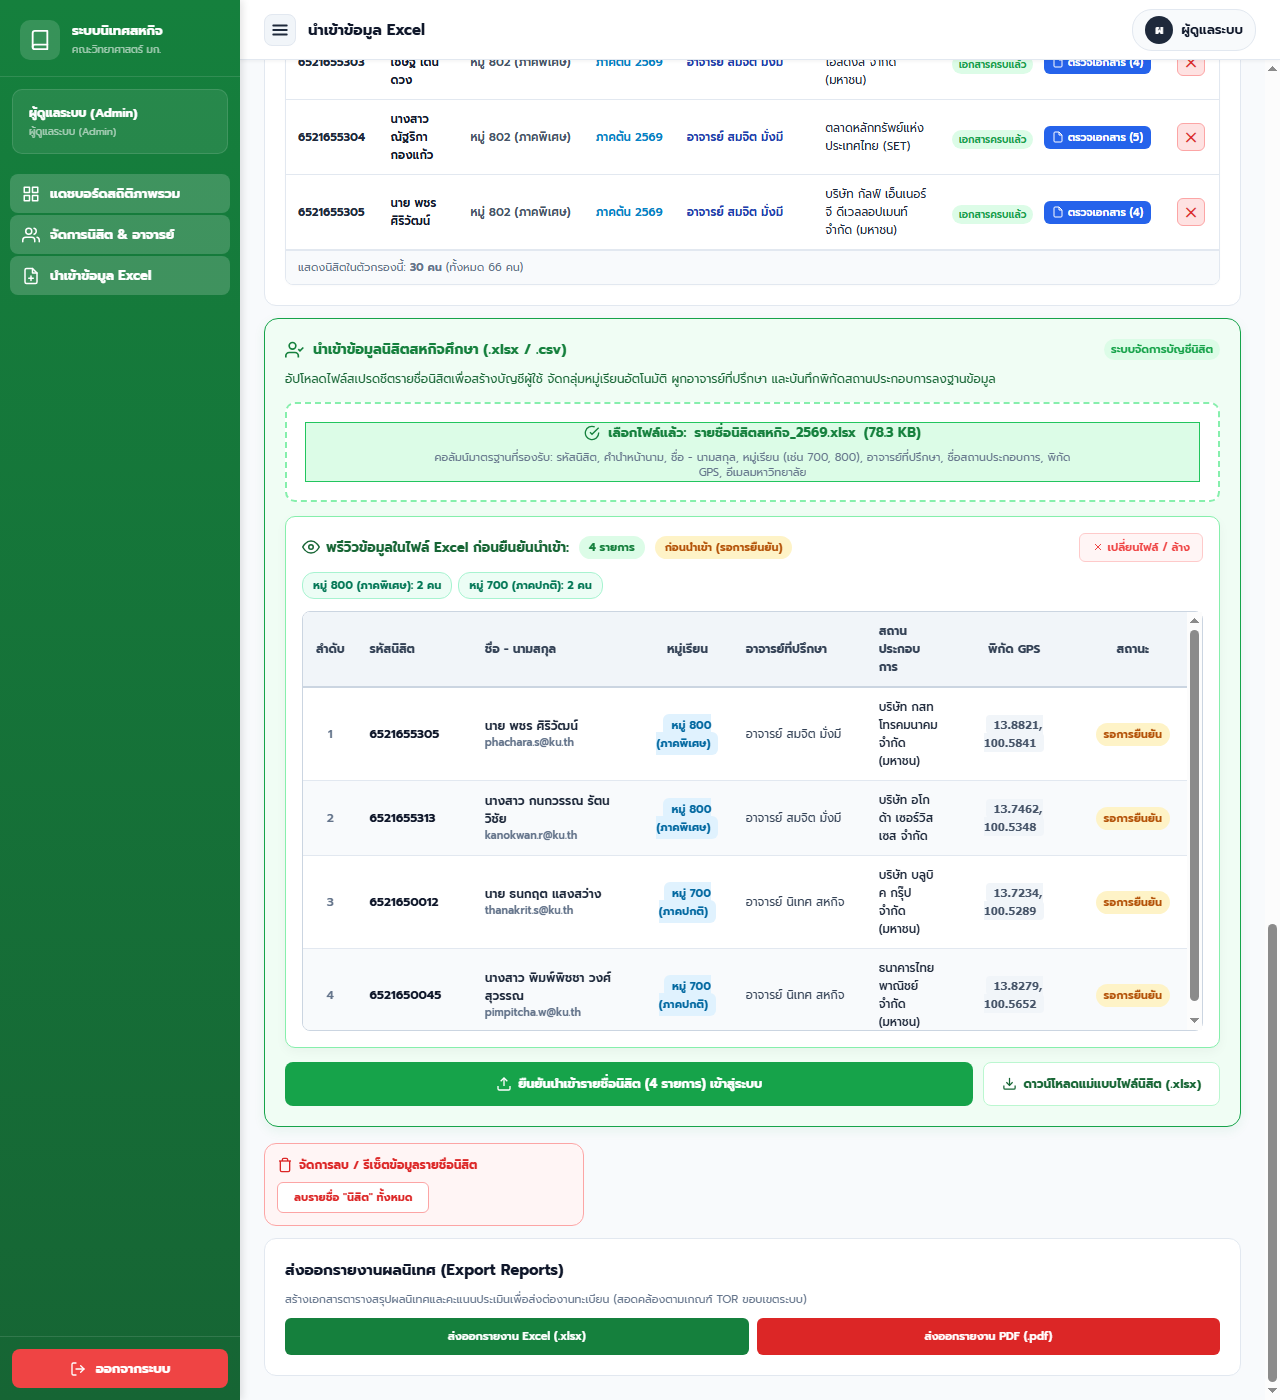
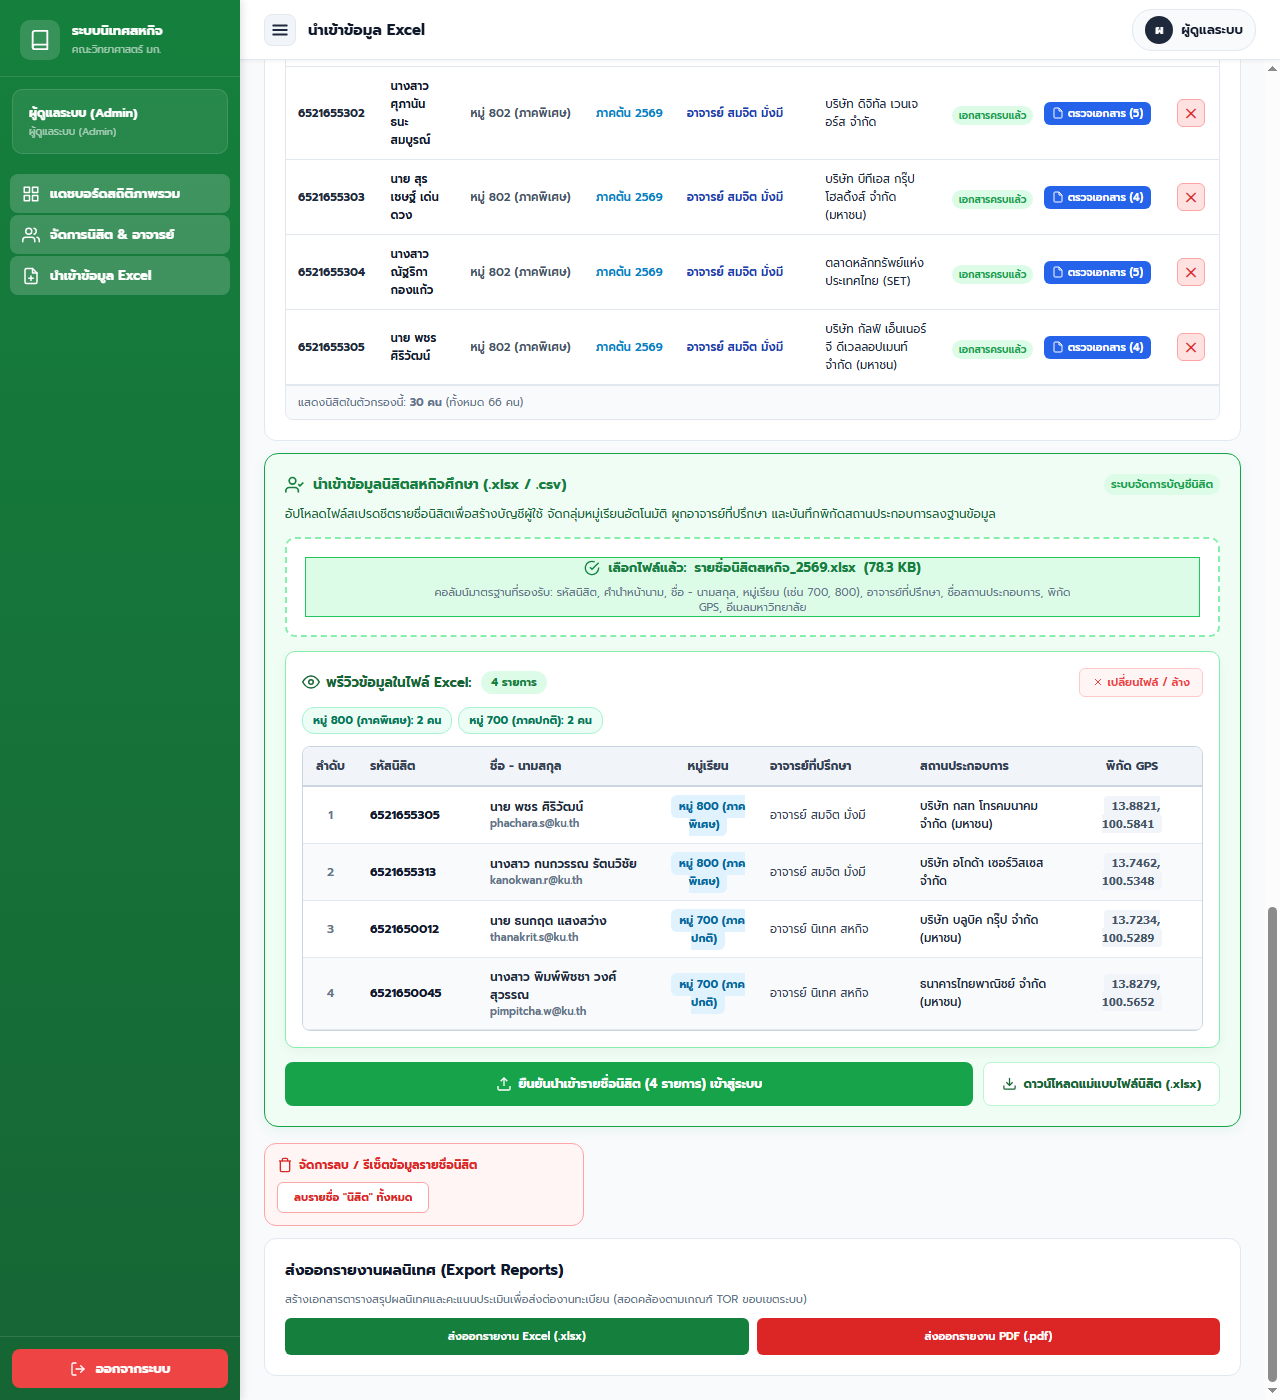
fix: remove confirmation status column and pre-import status tag from Excel preview

diff --git a/dashboard.html b/dashboard.html
@@ -207,12 +207,6 @@
                             <td style="padding: 10px 12px; color: #334155; font-size: 11.5px;">${item.advisor || '-'}</td>
                             <td style="padding: 10px 12px; color: #1e293b; font-size: 11.5px; font-weight: 500;">${item.company || item.company_name || '-'}</td>
                             <td style="padding: 10px 12px; text-align: center;">${coordsBadge}</td>
-                            <td style="padding: 10px 12px; text-align: center;">
-                                <span style="background: #dcfce7; color: #15803d; padding: 3px 8px; border-radius: 12px; font-weight: 700; font-size: 11px; display: inline-flex; align-items: center; gap: 4px;">
-                                    <svg width="12" height="12" viewBox="0 0 24 24" fill="none" stroke="currentColor" stroke-width="2.5"><polyline points="20 6 9 17 4 12"/></svg>
-                                    พร้อมใช้งาน
-                                </span>
-                            </td>
                         `;
                         tbody.appendChild(tr);
                     });
@@ -222,11 +216,9 @@
                 // ==============================================================
                 // PRE-IMPORT STATE (ก่อนเพิ่มไฟล์ / รอการยืนยัน)
                 // ==============================================================
-                if (titleText) titleText.textContent = 'พรีวิวข้อมูลในไฟล์ Excel ก่อนยืนยันนำเข้า:';
+                if (titleText) titleText.textContent = 'พรีวิวข้อมูลในไฟล์ Excel:';
                 if (statusTag) {
-                    statusTag.textContent = 'ก่อนนำเข้า (รอการยืนยัน)';
-                    statusTag.style.background = '#fef3c7';
-                    statusTag.style.color = '#b45309';
+                    statusTag.style.display = 'none';
                 }
                 if (postNotice) postNotice.style.display = 'none';
 
@@ -292,11 +284,6 @@
                             <td style="padding: 10px 12px; color: #334155; font-size: 11.5px;">${advisorVal}</td>
                             <td style="padding: 10px 12px; color: #1e293b; font-size: 11.5px; font-weight: 500;">${company}</td>
                             <td style="padding: 10px 12px; text-align: center;">${coordsBadge}</td>
-                            <td style="padding: 10px 12px; text-align: center;">
-                                <span style="background: #fef3c7; color: #b45309; padding: 3px 8px; border-radius: 12px; font-weight: 700; font-size: 11px;">
-                                    รอการยืนยัน
-                                </span>
-                            </td>
                         `;
                         tbody.appendChild(tr);
                     });
@@ -3073,10 +3060,10 @@
                                     <div style="display: flex; align-items: center; gap: 10px; flex-wrap: wrap;">
                                         <div id="admin-student-preview-title" style="font-size: 13.5px; font-weight: 700; color: #166534; display: flex; align-items: center; gap: 6px;">
                                             <svg width="18" height="18" viewBox="0 0 24 24" fill="none" stroke="currentColor" stroke-width="2"><path d="M1 12s4-8 11-8 11 8 11 8-4 8-11 8-11-8-11-8z"/><circle cx="12" cy="12" r="3"/></svg>
-                                            <span id="admin-student-preview-title-text">พรีวิวข้อมูลในไฟล์ Excel ก่อนยืนยันนำเข้า:</span>
+                                            <span id="admin-student-preview-title-text">พรีวิวข้อมูลในไฟล์ Excel:</span>
                                         </div>
                                         <span id="admin-student-preview-count-badge" class="badge" style="background: #dcfce7; color: #15803d; font-size: 11px; padding: 3px 10px; border-radius: 12px; font-weight: 700;">0 รายการ</span>
-                                        <span id="admin-student-preview-status-tag" class="badge" style="background: #fef3c7; color: #b45309; font-size: 11px; padding: 3px 10px; border-radius: 12px; font-weight: 700;">ก่อนนำเข้า (รอการยืนยัน)</span>
+                                        
                                     </div>
                                     <div style="display: flex; align-items: center; gap: 8px;">
                                         <button type="button" id="btn-admin-preview-clear" onclick="clearAdminStudentFile()" style="border: 1px solid #fecaca; background: #fff5f5; color: #ef4444; font-size: 11px; padding: 5px 12px; border-radius: 6px; cursor: pointer; font-weight: 600; display: inline-flex; align-items: center; gap: 4px;">
@@ -3101,7 +3088,7 @@
                                                 <th style="padding: 10px 12px; text-align: left; width: 150px;">อาจารย์ที่ปรึกษา</th>
                                                 <th style="padding: 10px 12px; text-align: left;">สถานประกอบการ</th>
                                                 <th style="padding: 10px 12px; text-align: center; width: 140px;">พิกัด GPS</th>
-                                                <th style="padding: 10px 12px; text-align: center; width: 120px;">สถานะ</th>
+                                                
                                             </tr>
                                         </thead>
                                         <tbody id="admin-student-preview-tbody">
